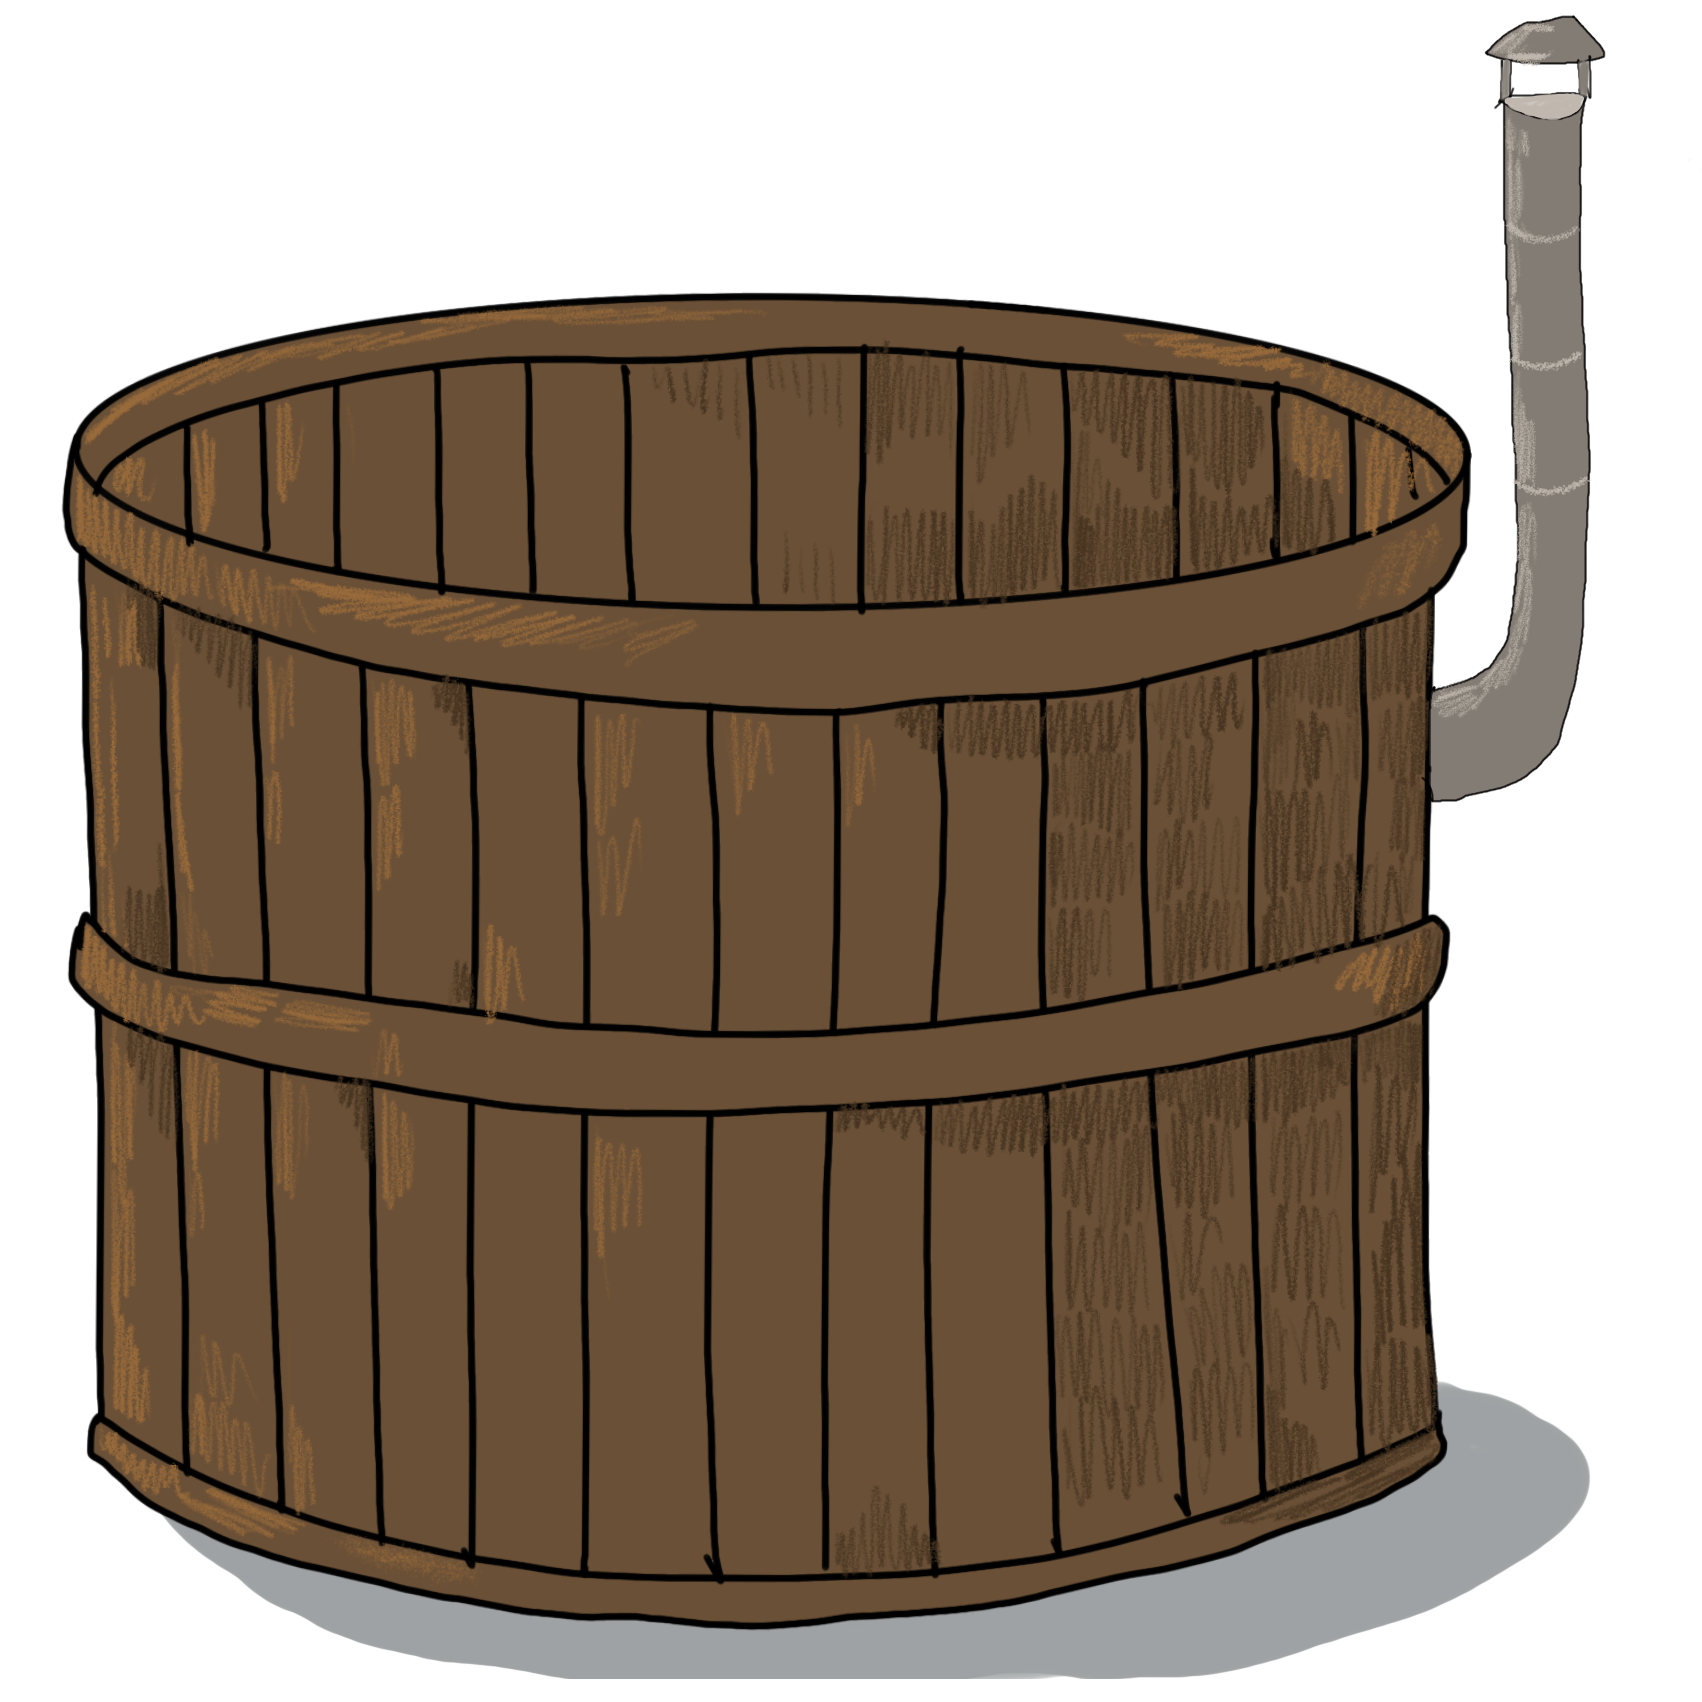
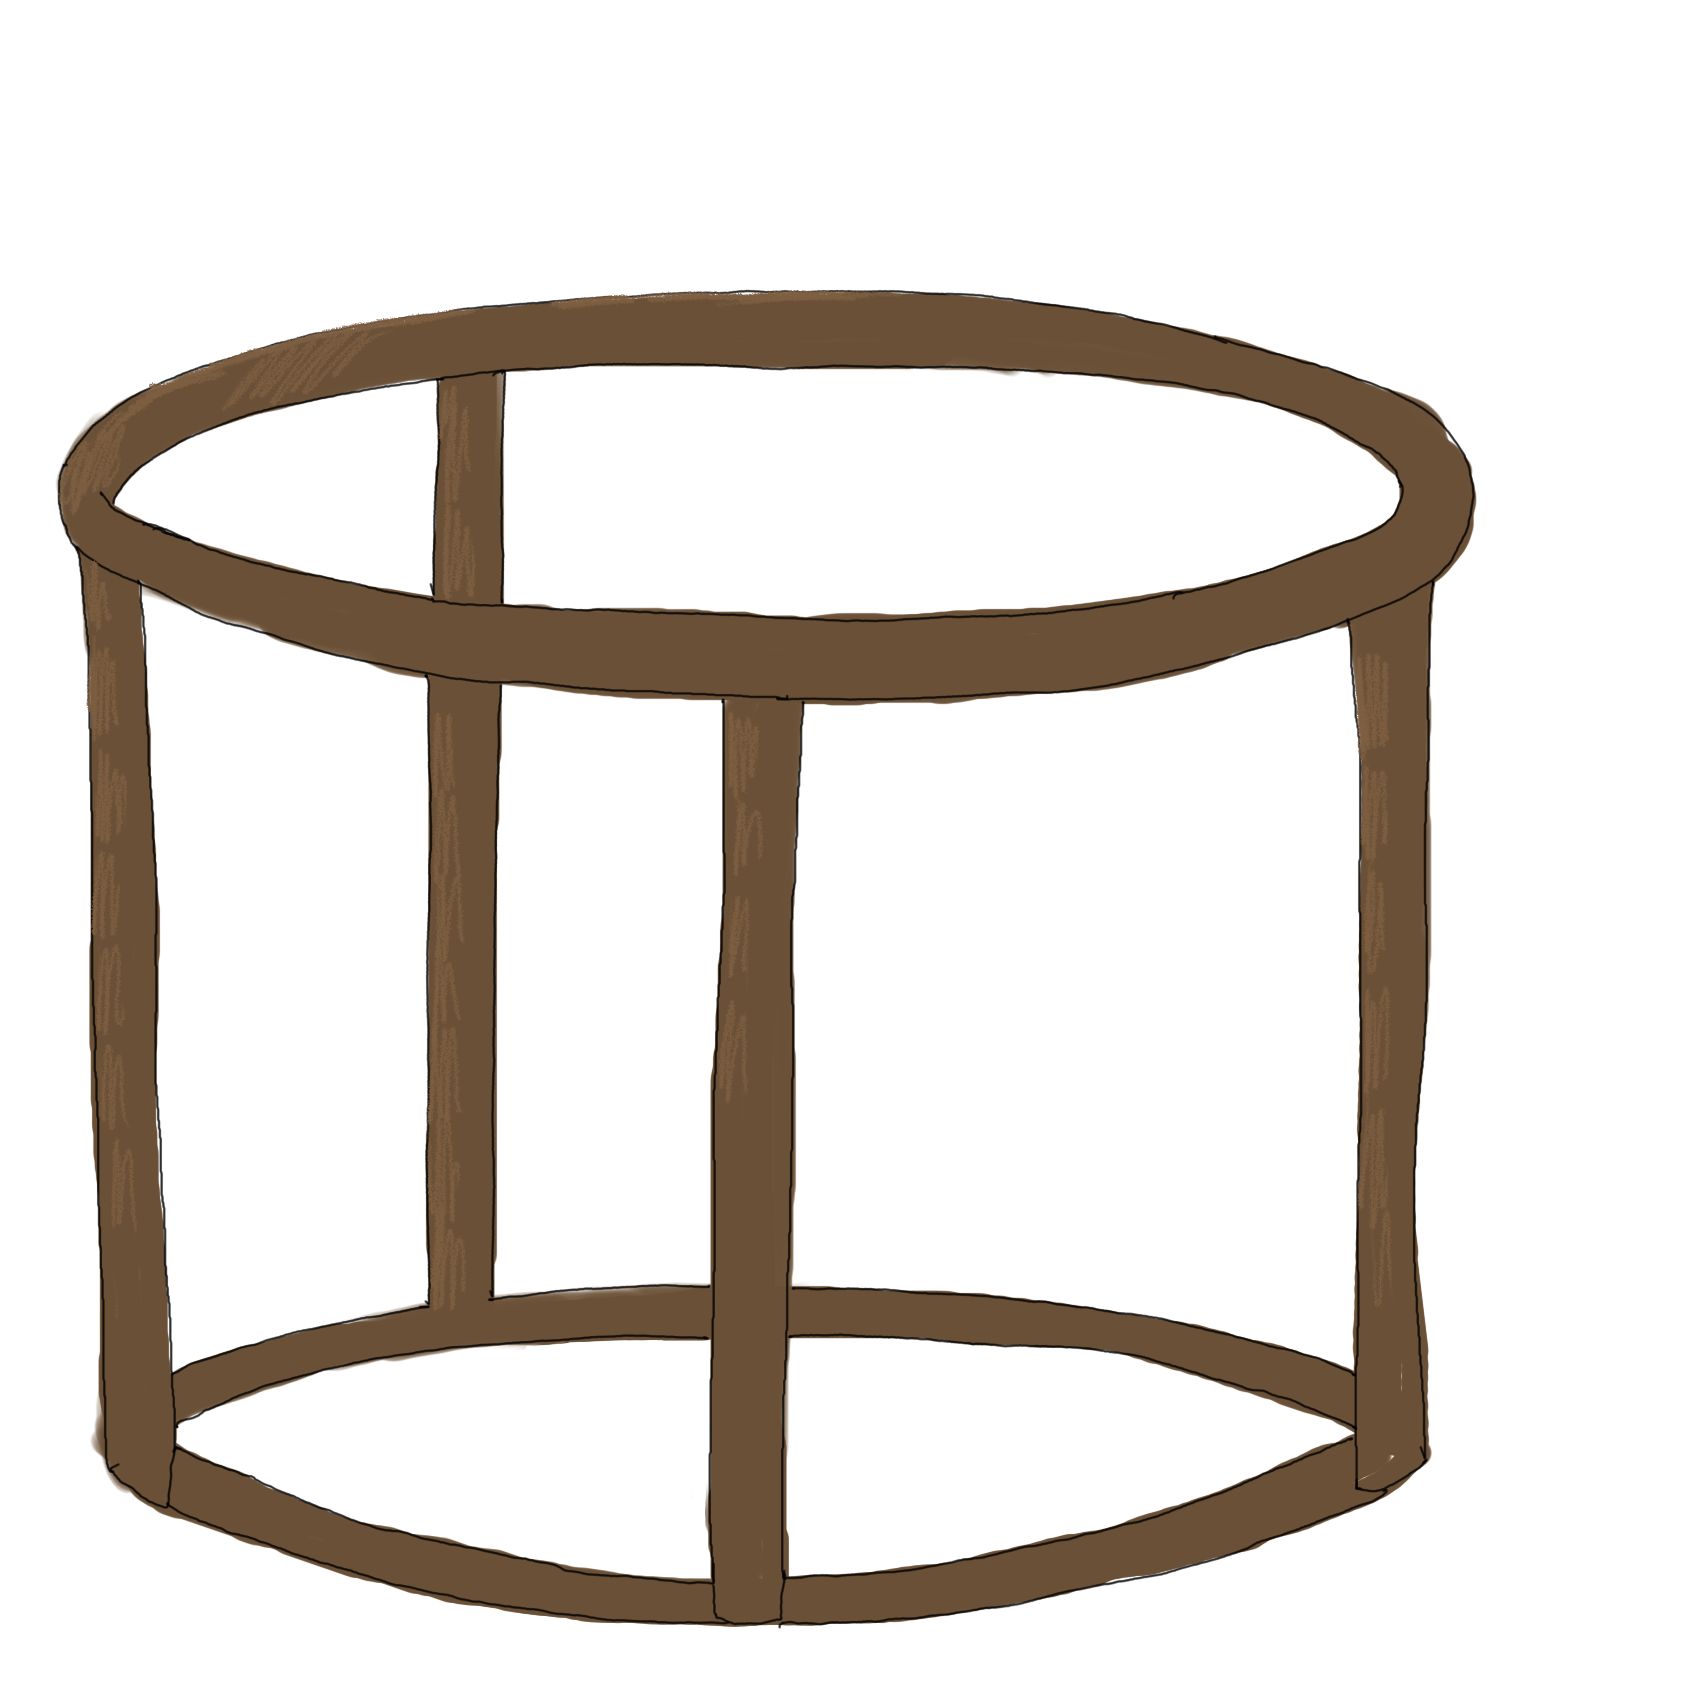
bath tub changes image based on built progress

diff --git a/render.cpp b/render.cpp
@@ -33,10 +33,17 @@ Texture2D dead_turtle_tex;
 Texture2D bathtub1_tex; 
 Texture2D bathtub2_tex;
 Texture2D bathtub3_tex;
+Texture2D bathtub4_tex;
+Texture2D bathtub5_tex;
 Texture2D donken_1_tex;
 Texture2D donken_2_tex;
 Texture2D donken_3_tex;
 
+Texture2D scale(Texture2D tex, int width, int height) {
+  Image im = LoadImageFromTexture(tex);
+  ImageResize(&im, width, height);
+  return LoadTextureFromImage(im);
+}
 
 void init_resources(App const& app) 
 {
@@ -126,6 +133,8 @@ void init_resources(App const& app)
   ImageResize(&bathtub1_image, big_size, big_size);
   ImageResize(&bathtub2_image, big_size, big_size);
   ImageResize(&bathtub3_image, big_size, big_size);
+  bathtub4_tex = scale(LoadTexture("resources/Bath_4.png"), big_size, big_size);
+  bathtub5_tex = scale(LoadTexture("resources/Bath_5.png"), big_size, big_size);
   ImageResize(&donken_1_image, big_size, big_size);
   ImageResize(&donken_2_image, big_size, big_size);
   ImageResize(&donken_3_image, big_size, big_size);
@@ -385,9 +394,18 @@ void render_egg(Entity const& ent) {
 }
 
 void render_bath(Entity const& ent, float water_amount) {
-  Texture2D tex = water_amount > 6000.0f ?
-    bathtub3_tex : water_amount > 2000.0f ?
-      bathtub2_tex : bathtub1_tex;
+  Texture2D tex;
+  if (ent.built_percent < 50.0f) {
+    tex = bathtub1_tex;
+  }
+  else if (ent.built_percent < 100.0f) {
+    tex = bathtub2_tex;
+  }
+  else {
+    tex = water_amount > 6000.0f ?
+      bathtub5_tex : water_amount > 2000.0f ?
+        bathtub4_tex : bathtub3_tex;
+  }
   float scale = 0.2 + ent.built_percent * (0.8 / 100);
   Color color = ColorLerp_(GRAY, WHITE, ent.built_percent * (1.0f / 100.0f));
   DrawTextureEx(tex, { ent.x, ent.y }, 1.0f /*rotation*/, scale, color);  
